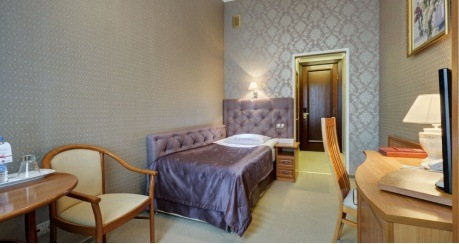
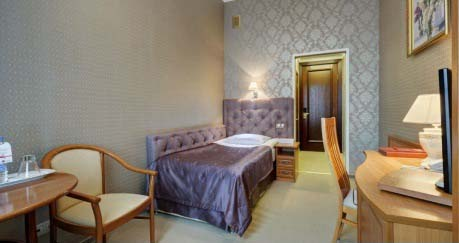
Сhanged proportions of room photos #29

diff --git a/src/components/room-photos/room-photos.scss b/src/components/room-photos/room-photos.scss
@@ -1,22 +1,24 @@
+@import '/styles/colors';
+
 $block: 'room-photos';
 .#{$block} {
-  display: flex;
-  height: 100%;
-  min-height: 485px;
-  max-height: 485px;
-  overflow: hidden;
+  background-color: $bg-variation;
 
-  @media only screen and (max-width: 600px) {
-    flex-direction: column;
+  &__wrapper {
+    display: flex;
+    max-width: 1440px;
+    margin: 0 auto;
+
+    @media only screen and (max-width: 800px) {
+      flex-direction: column;
+    }
   }
 
   &__main {
-    min-width: 66.67%;
-    max-width: 66.67%;
+    min-width: 68.1%;
+    max-width: 68.1%;
 
-    @media only screen and (max-width: 600px) {
-      display: flex;
-      flex-grow: 1;
+    @media only screen and (max-width: 800px) {
       min-width: 100%;
       max-width: 100%;
     }
@@ -25,55 +27,41 @@ $block: 'room-photos';
   &__aside {
     display: flex;
     flex-direction: column;
-    min-width: 33.33%;
-    max-width: 33.33%;
 
-    @media only screen and (max-width: 600px) {
-      flex-grow: 2;
-      min-width: 100%;
-      max-width: 100%;
+    @media only screen and (max-width: 800px) {
+      flex-direction: row;
     }
-    .#{$block}__photo-container {
-      min-height: 50%;
-      max-height: 50%;
-      overflow: hidden;
 
-      @media only screen and (max-width: 600px) {
-        flex-grow: 1;
+    @media only screen and (max-width: 460px) {
+      flex-direction: column;
+    }
+
+    .#{$block}__photo-container {
+      max-height: 50%;
+
+      @media only screen and (max-width: 800px) {
+        max-width: 50%;
+        max-height: 100%;
+      }
+
+      @media only screen and (max-width: 460px) {
+        max-width: 100%;
+      }
+    }
+
+    .#{$block}__photo {
+      @media only screen and (max-width: 800px) {
+        height: 100%;
+      }
+
+      @media only screen and (max-width: 460px) {
+        height: auto;
       }
     }
   }
 
-  &__photo-container {
-    position: relative;
-    min-height: 100%;
-    max-height: 100%;
-    overflow: hidden;
-
-    @media only screen and (max-width: 600px) {
-      flex-grow: 1;
-    }
-  }
-
   &__photo {
-    position: absolute;
-    top: 50%;
-    min-width: 102%;
-    transform: translateY(-50%);
-
-    @media only screen and (max-width: 1460px) {
-      top: auto;
-      left: 50%;
-      transform: translateY(0);
-      transform: translateX(-50%);
-    }
-
-    @media only screen and (max-width: 600px) {
-      top: 50%;
-      left: auto;
-      max-width: 102%;
-      transform: translateX(0);
-      transform: translateY(-50%);
-    }
+    display: block;
+    width: 100%;
   }
 }
